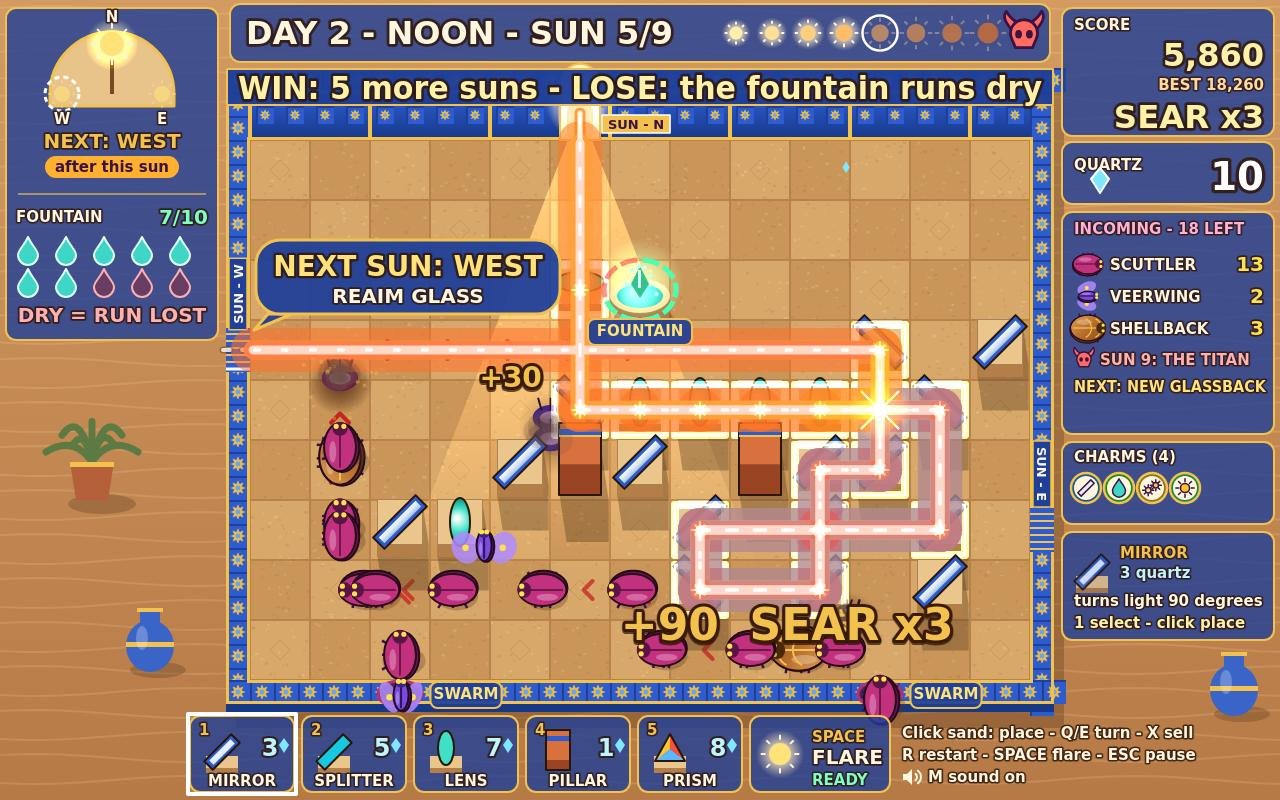
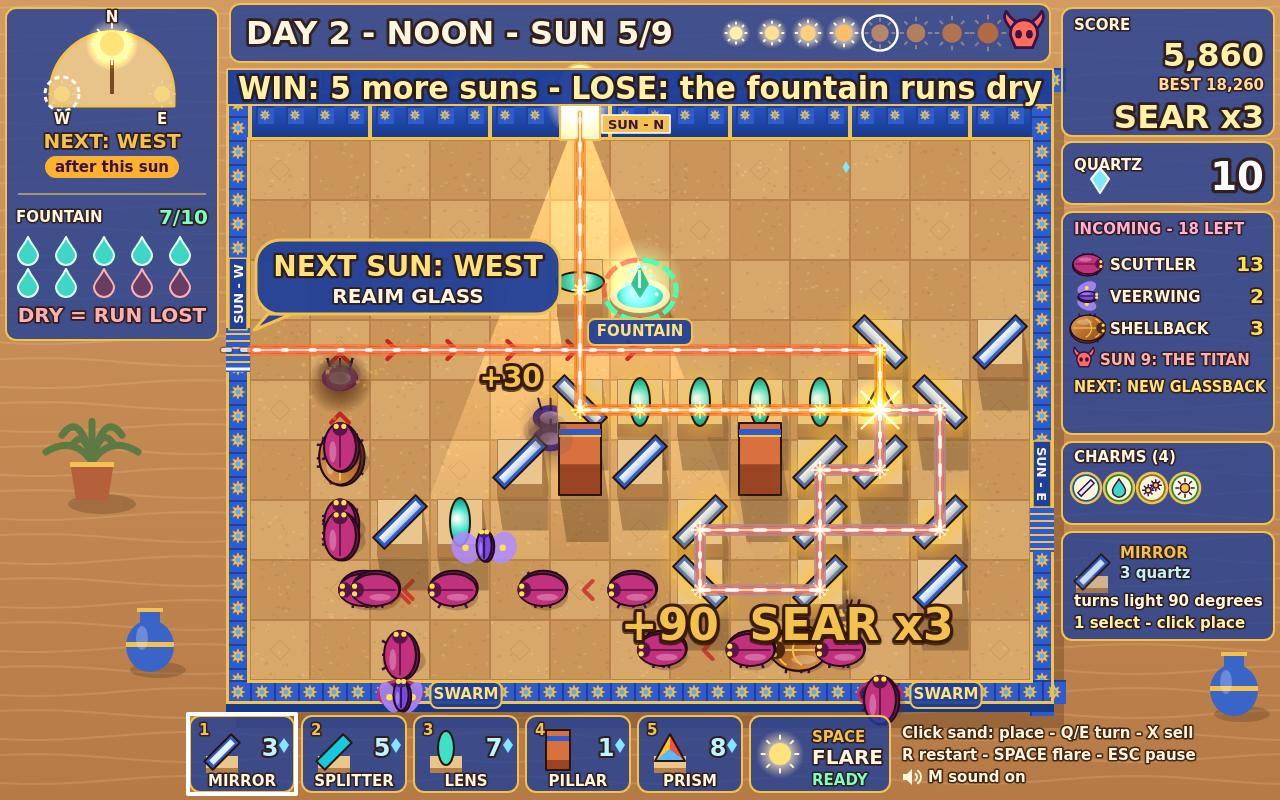
Clean beams: halo <= 12 px at 35%, tinted core <= 6 px, 2 px white centre; lit glass glows on the pane itself, no white cell squares

Changed region(s): [[0.1562, 0.125, 0.7812, 0.7812]]

diff --git a/game/src/render/board.js b/game/src/render/board.js
@@ -482,7 +482,8 @@ function easeTurn(piece, time) {
 }
 
 /** Draw one piece standing in cell (c, r). alpha < 1 for the placement ghost. */
-export function drawPiece(ctx, piece, c, r, shadow, time, alpha = 1) {
+/** One piece on its plinth; glow = the light is on it (the pane itself glows warm, no cell box). */
+export function drawPiece(ctx, piece, c, r, shadow, time, alpha = 1, glow = false) {
   const px = BOARD_X + c * CELL;
   const py = BOARD_Y + r * CELL;
   const age = piece.placedAt === undefined ? 9 : time - piece.placedAt;
@@ -510,6 +511,10 @@ export function drawPiece(ctx, piece, c, r, shadow, time, alpha = 1) {
     return;
   }
   ctx.translate(cx, cy);
+  if (glow) {
+    ctx.shadowColor = 'rgba(255,196,48,1)';
+    ctx.shadowBlur = 22;
+  }
   const angle = easeTurn(piece, time);
   if (piece.type === 'mirror' || piece.type === 'splitter') {
     // Rot 0 = "/" (bottom-left to top-right); each step turns 90 degrees.
@@ -594,21 +599,12 @@ export function drawPieces(ctx, grid, shadow, time, lit = null, next = null) {
       const i = r * grid.cols + c;
       const p = grid.pieces[i];
       if (!p) continue;
-      drawPiece(ctx, p, c, r, shadow, time);
-      if (!lit || p.type === 'pillar') continue;
+      const litNow = !!lit && lit[i] > 0 && p.type !== 'pillar';
+      drawPiece(ctx, p, c, r, shadow, time, 1, litNow);
+      if (!lit || p.type === 'pillar' || litNow) continue;
       const x = BOARD_X + c * CELL;
       const y = BOARD_Y + r * CELL;
-      if (lit[i] > 0) {
-        ctx.save();
-        ctx.globalCompositeOperation = 'lighter';
-        ctx.strokeStyle = 'rgba(255,240,190,0.55)';
-        ctx.lineWidth = 8;
-        ctx.strokeRect(x + 5, y + 5, CELL - 10, CELL - 10);
-        ctx.restore();
-        ctx.strokeStyle = '#FFFFFF';
-        ctx.lineWidth = 2.5;
-        ctx.strokeRect(x + 5, y + 5, CELL - 10, CELL - 10);
-      } else if (next && next.lit[i] > 0) {
+      if (next && next.lit[i] > 0) {
         ctx.setLineDash([7, 5]);
         ctx.strokeStyle = PALETTE.gold;
         ctx.lineWidth = 3;

diff --git a/game/src/render/fx.js b/game/src/render/fx.js
@@ -265,8 +265,11 @@ function drawStarburst(ctx, x, y, r, alpha) {
   ctx.stroke();
 }
 
-/** Glow, halo and core widths and alphas of a beam. */
-const BEAM_PASSES = [[26, 0.32], [11, 0.75], [5, 0.95]];
+/**
+ * A beam's passes: [width per unit of power, cap px, alpha]: a soft halo (<= 12 px, 35%), the tinted
+ * core (<= 6 px: orange sunlight, red or blue prism light) and a 2 px white centre line.
+ */
+const BEAM_PASSES = [[7, 12, 0.35], [3.5, 6, 0.95], [2, 2, 0.95]];
 /** Glow / halo / core colours per tint: sunlight, red (1), blue (2), gold (4). */
 const TINT_COLORS = {
   0: ['rgba(255,197,49,', 'rgba(255,128,24,', 'rgba(255,251,230,'],
@@ -293,14 +296,14 @@ export function drawBeams(ctx, trace, opts) {
   g.setTransform(ctx.getTransform());
   g.lineCap = 'round';
   for (let pass = 0; pass < 3; pass++) {
-    const [width, a] = BEAM_PASSES[pass];
+    const [width, cap, a] = BEAM_PASSES[pass];
     for (const leg of trace.legs) {
       const w = Math.min(1.7, Math.max(0.5, Math.sqrt(leg.power / 10))) * surge;
       const colors = leg.focused && pass < 2 ? FOCUS_COLORS : TINT_COLORS[leg.tint] ?? TINT_COLORS[0];
       g.strokeStyle = `${colors[pass]}${a})`;
-      g.lineWidth = width * w;
+      g.lineWidth = Math.min(cap, width * w);
       // Colour-blind option: prism light also differs by pattern (red long dashes, blue dots).
-      g.setLineDash(opts.patterns && pass === 2 ? TINT_DASHES[leg.tint] ?? [] : []);
+      g.setLineDash(opts.patterns && pass >= 1 ? TINT_DASHES[leg.tint] ?? [] : []);
       g.beginPath();
       g.moveTo(toScreenX(leg.x0), toScreenY(leg.y0));
       g.lineTo(toScreenX(leg.x1), toScreenY(leg.y1));

diff --git a/NOTES.md b/NOTES.md
@@ -252,6 +252,11 @@
   lerps orange -> white with heat (1 - hp/max), keeps 3-5 embers rising off it (fx, deterministic
   RNG) and a thin smoke puff. The staged cover tick has no beetle in the light; the title demo shows it.
 
+- Benchmark 6 item 6: clean beams: three passes, a soft halo (<= 12 px, 35% alpha), a tinted core
+  (<= 6 px: orange sunlight, red/blue prism light) and a 2 px white centre, all capped whatever the
+  power (was a 26 px glow + 11 px edge that turned the prism loop lilac). Lit glass no longer gets a
+  white cell box: the pane itself glows gold (shadow blur on the sprite only, not the plinth).
+
 ## Next
 - Field benchmark 5: items 1-11 all committed (21:45 UTC). Open from older sections: staging below,
   Bench3-3 solved plan (6 stray panes on the cover), Bench3-5 board >= 58%.
